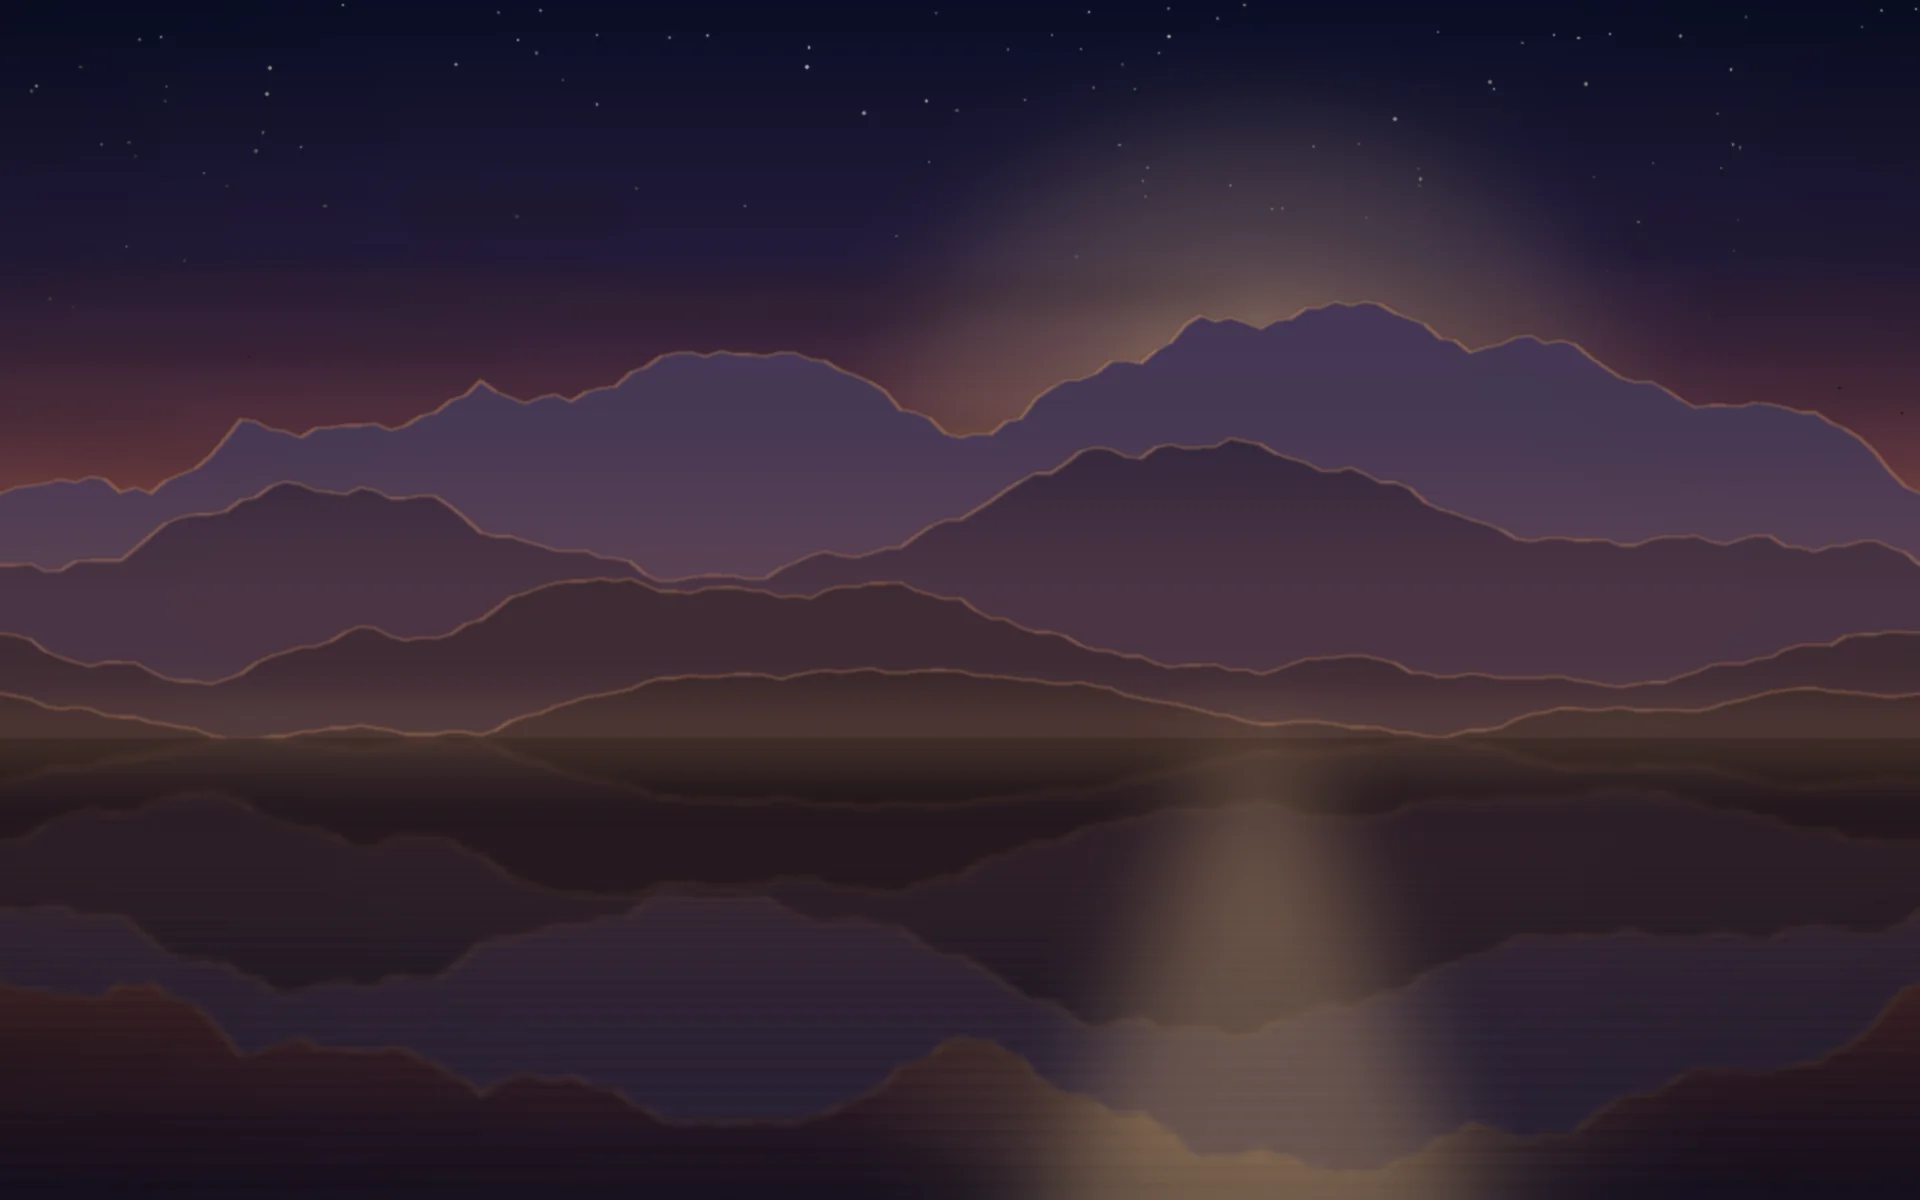
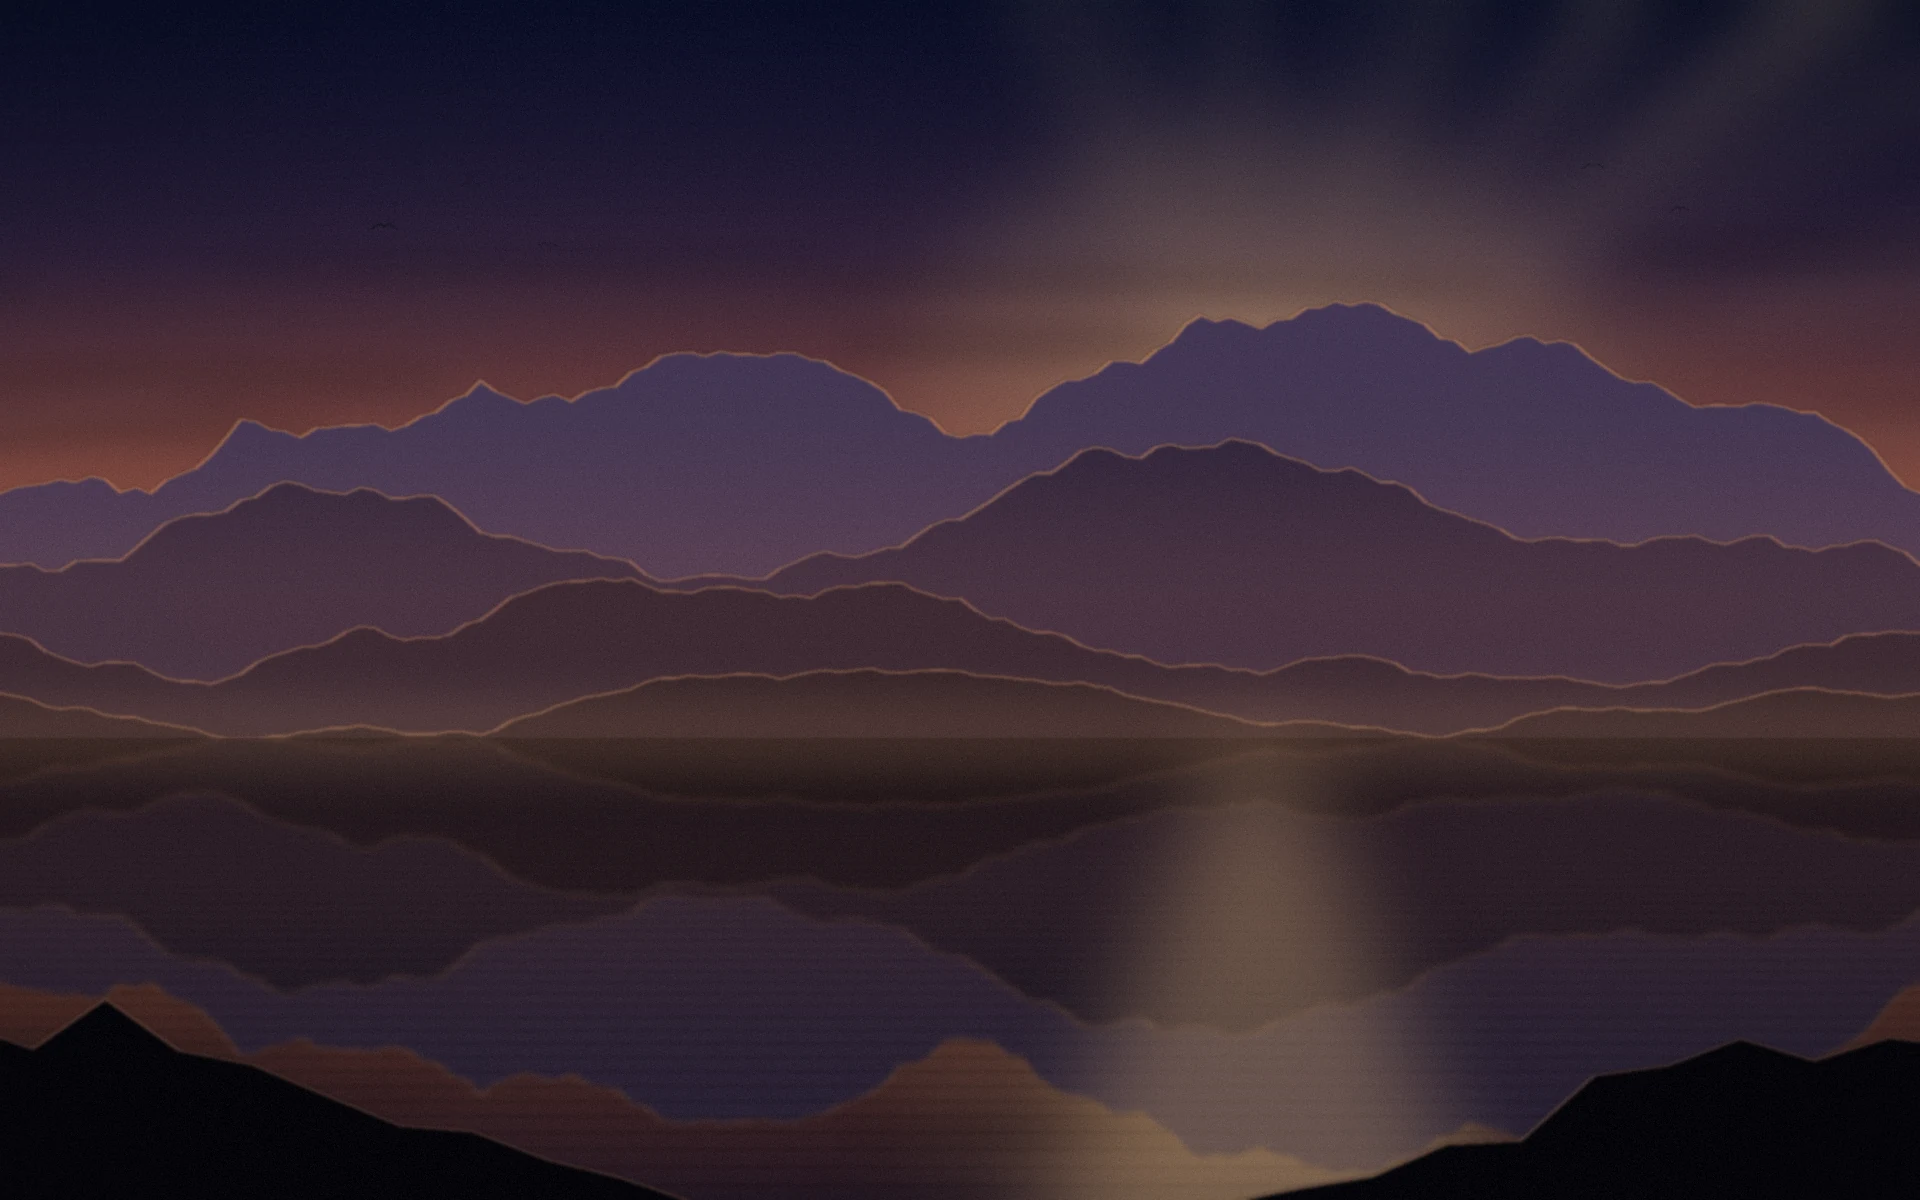
Richer scene behind the card
The dusk view gains what it was missing: crepuscular rays fanning out
from behind the peaks, the sun warmth bleeding sideways along the whole
horizon, dark headlands framing the lower corners, and a few birds for
scale.

The long sky gradient is dithered so it does not band across a wide
display. Note effect_noise centres on 128, so the dither has to be
added with a -128 offset - without that it lifts every channel and
washes the whole scene out to pastel, which is exactly what it did on
the first pass.

160KB.

diff --git a/tools-make-backdrop.py b/tools-make-backdrop.py
@@ -43,6 +43,13 @@ d = ImageDraw.Draw(img)
 for y in range(HORIZON):
     d.line([(0, y), (W, y)], fill=sky_colour(y / float(HORIZON)))
 
+# the sun's warmth bleeding sideways along the horizon
+spread = Image.new("L", (W, H), 0)
+ImageDraw.Draw(spread).ellipse([-W * 0.35, HORIZON - H * 0.30,
+                                W * 1.35, HORIZON + H * 0.06], fill=120)
+spread = spread.filter(ImageFilter.GaussianBlur(150))
+img = Image.composite(Image.new("RGB", (W, H), (198, 112, 66)), img, spread)
+
 # --- stars, only where the sky is still dark ------------------------------
 for _ in range(260):
     x = random.uniform(0, W)
@@ -62,6 +69,25 @@ for r, v in ((360, 44), (210, 82), (110, 148), (42, 255)):
     sd.ellipse([SUNX - r, SUNY - r * 0.92, SUNX + r, SUNY + r * 0.92], fill=v)
 sun = sun.filter(ImageFilter.GaussianBlur(48))
 img = Image.composite(Image.new("RGB", (W, H), (255, 214, 150)), img, sun)
+
+# --- rays fanning out of the sun ------------------------------------------
+rays = Image.new("L", (W, H), 0)
+ryd = ImageDraw.Draw(rays)
+for k in range(11):
+    ang = math.radians(-118 + k * 13 + random.uniform(-3, 3))
+    spread_a = math.radians(random.uniform(1.1, 3.0))
+    far = H * 1.5
+    ryd.polygon([(SUNX, SUNY),
+                 (SUNX + far * math.cos(ang - spread_a),
+                  SUNY + far * math.sin(ang - spread_a)),
+                 (SUNX + far * math.cos(ang + spread_a),
+                  SUNY + far * math.sin(ang + spread_a))],
+                fill=random.randint(26, 54))
+rays = rays.filter(ImageFilter.GaussianBlur(34))
+mask = Image.new("L", (W, H), 0)
+ImageDraw.Draw(mask).rectangle([0, 0, W, HORIZON], fill=255)
+rays = ImageChops.multiply(rays, mask.filter(ImageFilter.GaussianBlur(20)))
+img = Image.composite(Image.new("RGB", (W, H), (255, 208, 152)), img, rays)
 
 # --- clouds: long, thin, catching the light from below --------------------
 clouds = Image.new("RGBA", (W, H), (0, 0, 0, 0))
@@ -166,8 +192,42 @@ ImageDraw.Draw(mist).rectangle([0, HORIZON - 26, W, HORIZON + 16], fill=120)
 mist = mist.filter(ImageFilter.GaussianBlur(30))
 img = Image.composite(Image.new("RGB", (W, H), (208, 150, 116)), img, mist)
 
+# --- headlands framing the lower corners ----------------------------------
+shore = Image.new("RGBA", (W, H), (0, 0, 0, 0))
+shd = ImageDraw.Draw(shore)
+for side in (0, 1):
+    rnd = random.Random(41 + side)
+    pts = []
+    for i in range(13):
+        t = i / 12.0
+        x = (-W * 0.06 + t * W * 0.46) if side == 0 else (W * 1.06 - t * W * 0.46)
+        y = H * (0.86 + 0.16 * t) - rnd.uniform(0, H * 0.10) * (1 - t)
+        pts.append((x, y))
+    shd.polygon(pts + [(pts[-1][0], H + 40), (pts[0][0], H + 40)],
+                fill=(6, 6, 11, 255))
+    shd.line(pts, fill=(150, 104, 84, 90), width=3)
+shore = shore.filter(ImageFilter.GaussianBlur(1.6))
+img = Image.alpha_composite(img.convert("RGBA"), shore).convert("RGB")
+
+# --- birds, for scale ------------------------------------------------------
+bd2 = ImageDraw.Draw(img)
+for bx, by, sc in ((W * 0.20, H * 0.19, 1.0), (W * 0.245, H * 0.155, 0.8),
+                   (W * 0.285, H * 0.205, 0.7), (W * 0.83, H * 0.14, 0.85),
+                   (W * 0.875, H * 0.175, 0.65)):
+    w2, h2 = 13 * sc, 5 * sc
+    bd2.line([(bx - w2, by), (bx - w2 * 0.35, by - h2), (bx, by - h2 * 0.25)],
+             fill=(24, 22, 34), width=max(1, int(2 * sc)))
+    bd2.line([(bx, by - h2 * 0.25), (bx + w2 * 0.35, by - h2), (bx + w2, by)],
+             fill=(24, 22, 34), width=max(1, int(2 * sc)))
+
 # --- settle -----------------------------------------------------------------
 img = img.filter(ImageFilter.GaussianBlur(0.8))
+# Dither the long sky gradient so it does not band on a wide screen.
+# effect_noise centres on 128, so subtract that back off rather than
+# adding a flat +128 to every channel.
+grain = Image.effect_noise((W, H), 3).convert("L")
+img = ImageChops.add(img, Image.merge("RGB", (grain, grain, grain)),
+                     scale=1, offset=-128)
 img = img.point(lambda v: int(v * 0.92))
 
 vig = Image.new("L", (W, H), 0)
@@ -175,6 +235,6 @@ ImageDraw.Draw(vig).ellipse([-W * 0.16, -H * 0.20, W * 1.16, H * 1.20], fill=255
 vig = vig.filter(ImageFilter.GaussianBlur(250))
 img = Image.composite(img, Image.new("RGB", (W, H), (5, 5, 9)), vig)
 
-img.save(DST, quality=84, method=6)
+img.save(DST, quality=88, method=6)
 print("wrote %s %s (%dKB)" % (os.path.relpath(DST, HERE), img.size,
                               os.path.getsize(DST) // 1024))
